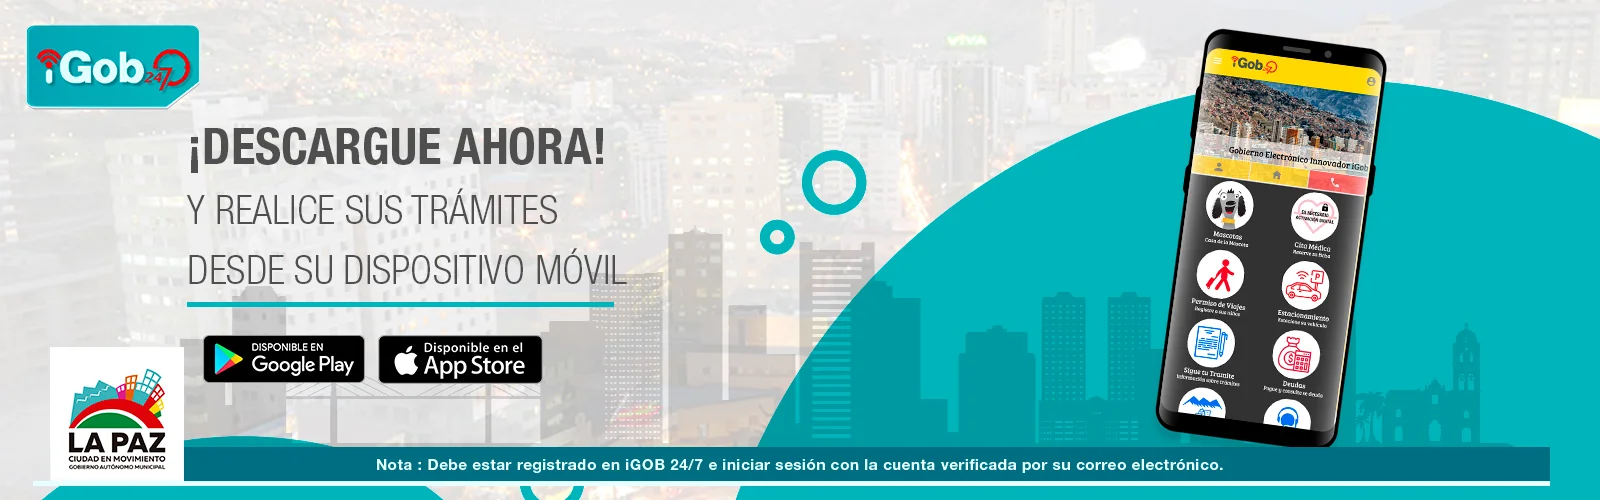
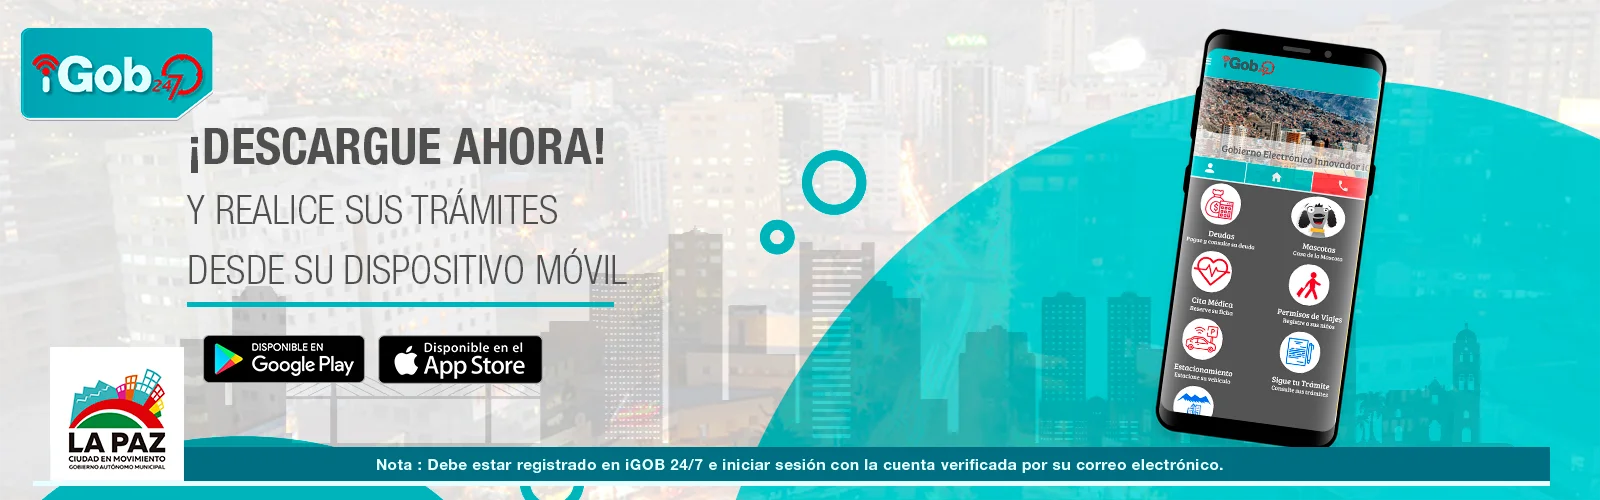
Mod_adicionElementos_appmovxLaPaz_19082021

Changed region(s): [[0.4375, 0.09, 1.0, 1.0], [0.0, 0.03, 0.1562, 0.24], [0.9688, 0.63, 1.0, 0.66]]

diff --git a/AngularFrontEnd/index.html b/AngularFrontEnd/index.html
@@ -76,23 +76,23 @@
 
 	<!-- Modal bootstrap Comunicado 2 ========== -->
 
-	<!-- <div id="modalWarning" class="modal fade" data-keyboard="false" data-backdrop="static">
+	<div id="modalWarning" class="modal fade" data-keyboard="false" data-backdrop="static">
 		<div class="modal-dialog modal-lg modal-dialog-centered">
 			<div class="modal-content">
-				<div class="modal-header">
+				<div class="modal-header header-modalCustom">
 					<h5 class="modal-title">Importante</h5>
 					<button type="button" class="close" data-dismiss="modal">&times;</button>
 				</div>
 				<div class="modal-body">
-					<img src="structureIgob/images/publicNews/info1.webp" alt="" style="width: 100%;">
+					<img src="structureIgob/images/publicNews/pub5.webp" alt="" style="width: 100%; margin: 0 0 15px 0;">
 					<div class="mt-lg-3 text-center">
-						<a href="app/view/autenticacion/partials/login_.html" target="_self" class="btn-modalCustom btn-modalPrimary mr-2 mb-2"><i class="icofont-user"></i> Iniciar Sesión</a>
-						<a href="app/view/autenticacion/partials/registro_.html#/registro" target="_blank" class="btn-modalCustom btn-modalPrimary mr-2 mb-2"><i class="icofont-clip-board"></i> Registrarse</a>
+						<a href="https://play.google.com/store/apps/details?id=com.gamlp.moviendonos_x_lp" target="_self" class="btn-modalCustom btn-modalPrimary mr-2 mb-2"><i class="icofont-brand-android-robot"></i> DESCARGAR EN PLAY STORE</a>
+						<!-- <a href="app/view/autenticacion/partials/registro_.html#/registro" target="_blank" class="btn-modalCustom btn-modalPrimary mr-2 mb-2"><i class="icofont-clip-board"></i> Registrarse</a> -->
 					</div>
 				</div>
 			</div>
 		</div>
-	</div> -->
+	</div>
 
 	<!-- End Modal bootstrap Comunicado 2 ========== -->
 
@@ -229,10 +229,11 @@
     	<!-- Seccion de noticias y/o comunicados -->
 
 		<div class="latest-news-section">
-			<div class="ln-title"><a href="#carousel-municipality" class="smoothscroll" title="Ir a sección de comunicados">Comunicados</a></div>
+			<div class="ln-title"><a href="#carousel-municipality" class="smoothscroll" title="Ir a sección de comunicados">Ir a Comunicados</a></div>
 			<div class="d-flex justify-content-between align-items-center breaking-news latest-news-section">
 				<marquee class="news-scroll" behavior="scroll" direction="left" onmouseover="this.stop();" onmouseout="this.start(); " scrollamount="10" loop="infinite"> 
-					<span class="new">Aviso</span> <a href="#">Para aplicar las medidas de restricciones definidas por la COEM  en fecha 15 de junio de 2021. Ponemos a disposición el “Permisos de Circulación”  que puede realizar desde donde se encuentre a través del iGOB 24/7, el permisos llegara a su correo electrónico o a su bandeja del iGOB sin necesidad que venga presencialmente al GAMLP.</a> 
+					<span class="release">Noticia</span> <a href="https://play.google.com/store/apps/details?id=com.gamlp.moviendonos_x_lp" target="_blank">Conoce las rutas del transporte paceño, ¡DESCARGA MOVIENDONOS POR LA PAZ!.</a> 
+					<!-- <span class="new">Aviso</span> <a href="#">Para aplicar las medidas de restricciones definidas por la COEM  en fecha 15 de junio de 2021. Ponemos a disposición el “Permisos de Circulación”  que puede realizar desde donde se encuentre a través del iGOB 24/7, el permisos llegara a su correo electrónico o a su bandeja del iGOB sin necesidad que venga presencialmente al GAMLP.</a>  -->
 					<span class="release">Noticia</span> <a href="#">Realice su solicitud de trámites o servicios virtuales mediante nuestra plataforma.</a> 
 					<span class="report">Reporte</span> <a href="#">Utilice nuestros nuevos módulos: Correspondencia Ciudadana y Correspondencia Concejo Municipal, Registro de Radio Bases y/o Gabinetes de Telecomunicaciones, Registro de Mascotas, Movilidad Operadores, Registro Transitorio Delivery, “Registro Valor Libro Inmuebles, Registro Valor Libros Vehículos Inscripción, Casa Comercial Vehículos, Inscripción Casa Comercial Motos”, Reservas de Parqueo Subsuelo, Mercado Lanza (app),  Movilidad Infracciones (app).</a> 
 					<span class="new">Aviso</span> <a href="#">¡Revise nuestra sección de comunicados!</a> 
@@ -665,15 +666,25 @@
 								  <li data-target="#carouselindicators" data-slide-to="1" class="active"></li>
 							  </ol>
 							  <div class="carousel-inner">
-								  <div class="carousel-item active carousel-item-left"> <img class="d-block w-100" src="structureIgob/images/publicNews/pub3.png" alt="First slide">
-									  <div class="carousel-caption d-none d-md-block">
-										  <!-- <h4> <i class="icofont-chat"></i> SliderComunicado1</h4> -->
-									  </div>
+								  <div class="carousel-item active carousel-item-left"> <img class="d-block w-100" src="structureIgob/images/publicNews/pub3.webp" alt="First slide">
+									  <!-- <div class="carousel-caption d-none d-md-block">
+										  <h4> <i class="icofont-chat"></i> SliderComunicado1</h4>
+									  </div> -->
 								  </div>
-								  <div class="carousel-item carousel-item-next carousel-item-left"> <img class="d-block w-100" src="structureIgob/images/publicNews/pub2.png" alt="Second slide">
-									  <div class="carousel-caption d-none d-md-block">
-										  <!-- <h4> <i class="icofont-chat"></i> SliderComunicado2 </h4> -->
-									  </div>
+								  <div class="carousel-item carousel-item-next carousel-item-left"> <img class="d-block w-100" src="structureIgob/images/publicNews/pub5.webp" alt="Second slide">
+									<div class="carousel-caption d-none d-md-block" style="background: linear-gradient(to left, #0000001c 5%, #000000ba 50%, #0000001c 90%); border-radius: 5px;">
+										<a href="https://play.google.com/store/apps/details?id=com.gamlp.moviendonos_x_lp" class="btn btn-outline-light btn-icon-text" target="_blank"> 
+											<i class="icofont-brand-android-robot btn-icon-prepend" style="font-size: 39px; margin-right: 10px;"></i> 
+											<span class="d-inline-block text-left"> <small class="font-weight-light d-block">Descargar en</small> Google Play </span>
+										</a> 
+										<!-- <a href="app/view/autenticacion/partials/login_.html" target="_self" class="btn btn-primary mr-2 mb-2"><i class="icofont-user"></i> IR A PLAY STORE</a> -->
+										<!-- <h4> <i class="icofont-chat"></i> SliderComunicado2 </h4> -->
+									</div>
+								  </div>
+								  <div class="carousel-item carousel-item-next carousel-item-left"> <img class="d-block w-100" src="structureIgob/images/publicNews/pub2.webp" alt="Third slide">
+									  <!-- <div class="carousel-caption d-none d-md-block">
+										  <h4> <i class="icofont-chat"></i> SliderComunicado2 </h4>
+									  </div> -->
 								  </div>
 							  </div> <a class="carousel-control-prev" href="#carouselindicators" role="button" data-slide="prev" data-abc="true"> <i class="icofont-hand-drawn-left icofont-3x" style="color: #e41b25;"></i> <span class="sr-only">Anterior</span> </a> <a class="carousel-control-next" href="#carouselindicators" role="button" data-slide="next" data-abc="true"> <i class="icofont-hand-drawn-right icofont-3x" style="color: #e41b25;"></i> <span class="sr-only">Siguiente</span> </a>
 						  </div>

diff --git a/AngularFrontEnd/app/view/autenticacion/partials/login_.html b/AngularFrontEnd/app/view/autenticacion/partials/login_.html
@@ -859,24 +859,24 @@
                       </div>
 
                       <div class="carousel-item card border-0 card-0">
-                          <div class="text-center"> <img src="../../../../structureIgob/images/iconsApps/sigueTuRutaV2.png" class="img-fluid profile-pic"> </div>
+                          <div class="text-center"> <img src="../../../../structureIgob/images/iconsApps/movplp.png" class="img-fluid profile-pic"> </div>
                           <hr width="100%">
                           <div class="row">
                             <div class="col-lg-4 columns">
                               <div class="captureStoreGraphic"> 
-                                <img src="../../../../structureIgob/images/iconsApps/captureSigueTuRuta.png" alt="sample" style="height: 100%;">
+                                <img src="../../../../structureIgob/images/iconsApps/captureMovplp.png" alt="sample" style="height: 100%;">
                               </div>
                             </div>
                               
                             <div class="col-lg-8 columns">
-                              <h1 class="titleStore">SIGUE TU RUTA</h1>
+                              <h1 class="titleStore">MOVIENDONOS POR LA PAZ</h1>
                               <hr width="50%">
-                              <span class="descriptionStore">Permite supervisar sus rutas a los ciudadanos ver las rutas y recorridos de las diferentes líneas de La Paz.</span>
+                              <span class="descriptionStore">Permite al ciudadano conocer 559 rutas y 935 recorridos del transporte municipal y público que operan y realizan el servicio en el Municipio de la Ciudad de La Paz.</span>
 
                               <div class="buttonsStore">
                                 <div class="row container d-flex justify-content-initial">
                                   <div class="template-demo mt-2"> 
-                                    <a href="https://play.google.com/store/apps/details?id=com.gamlp.sigue_tu_ruta" class="btn btn-outline-light btn-icon-text"> 
+                                    <a href="https://play.google.com/store/apps/details?id=com.gamlp.moviendonos_x_lp" class="btn btn-outline-light btn-icon-text" target="_blank"> 
                                       <i class="icofont-brand-android-robot btn-icon-prepend mdi-36px"></i> 
                                       <span class="d-inline-block text-left"> <small class="font-weight-light d-block">Disponible en</small> Google Play </span>
                                     </a> 

diff --git a/AngularFrontEnd/structureIgob/css/style.css b/AngularFrontEnd/structureIgob/css/style.css
@@ -1667,7 +1667,11 @@ Fab Municipality
   background: #00000099;
   border-radius: 5px;
 }
-
+/* *******************MODAL CUSTOM BOOTSTRAP************************** */
+.header-modalCustom {
+  background: #f0583e;
+}
+/* *******************END MODAL CUSTOM BOOTSTRAP************************** */
 .btn-modalCustom {
   font-size: 12px;
   font-weight: 500;

diff --git a/AngularFrontEnd/structureIgob/css/login/login.css b/AngularFrontEnd/structureIgob/css/login/login.css
@@ -484,7 +484,7 @@ padding: 20px;
   }
   
   .carousel-indicators li#li2 {
-      background: url("../../images/iconsApps/sigueTuRutaV2.png") !important;
+      background: url("../../images/iconsApps/movplp.png") !important;
       background-size: cover !important
   }
   
